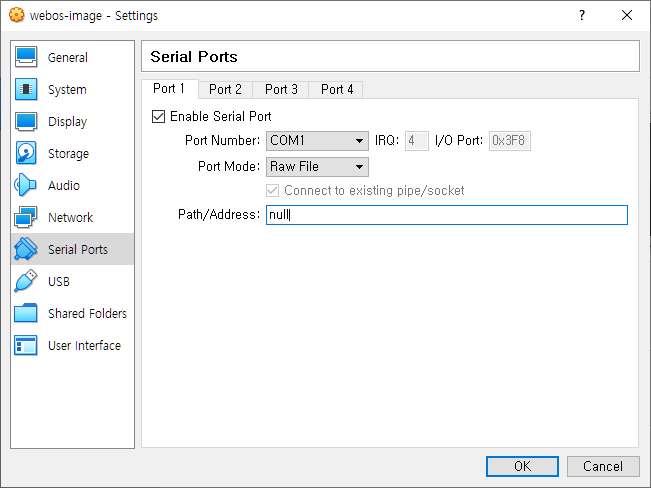
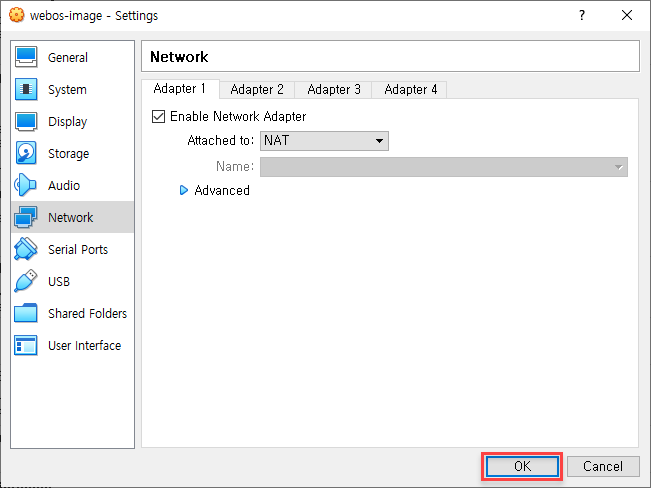
Correct a guide document and replace a screenshot:
- Delete descriptions for serial ports setup
- Delete a screenshot for serial ports setup
- Add a screenshot for finishing emulator setup

diff --git a/content/en/docs/tools/sdk/emulator/virtualbox-emulator/emulator-user-guide.md b/content/en/docs/tools/sdk/emulator/virtualbox-emulator/emulator-user-guide.md
@@ -1,7 +1,7 @@
 ---
 title: User Guide
 display_title: VirtualBox Emulator User Guide
-date: 2021-04-01
+date: 2021-04-06
 weight: 10
 toc: true
 ---
@@ -232,7 +232,11 @@ The screenshots below have been captured from Oracle VM VirtualBox v6.0.14 on Wi
 
     {{< figure src="/images/docs/tools/emulator/vbox_emulator_img13.png" alt="Configuring the port forwarding rules 2" class="align-left" >}}
 
-    Click **OK**. You will return to the **Adapter 1** section. On the navigation bar, click **Serial Ports**.
+    Click **OK**. You will return to the **Adapter 1** section.
+
+    {{< figure src="/images/docs/tools/emulator/vbox_emulator_img14.png" alt="Finishing the virtual machine setup" class="align-left" >}}
+
+    Click **OK**.
 
 13. Oracle VM VirtualBox Manager will return to the main screen and display the details of the virtual machine with updated information.
 
